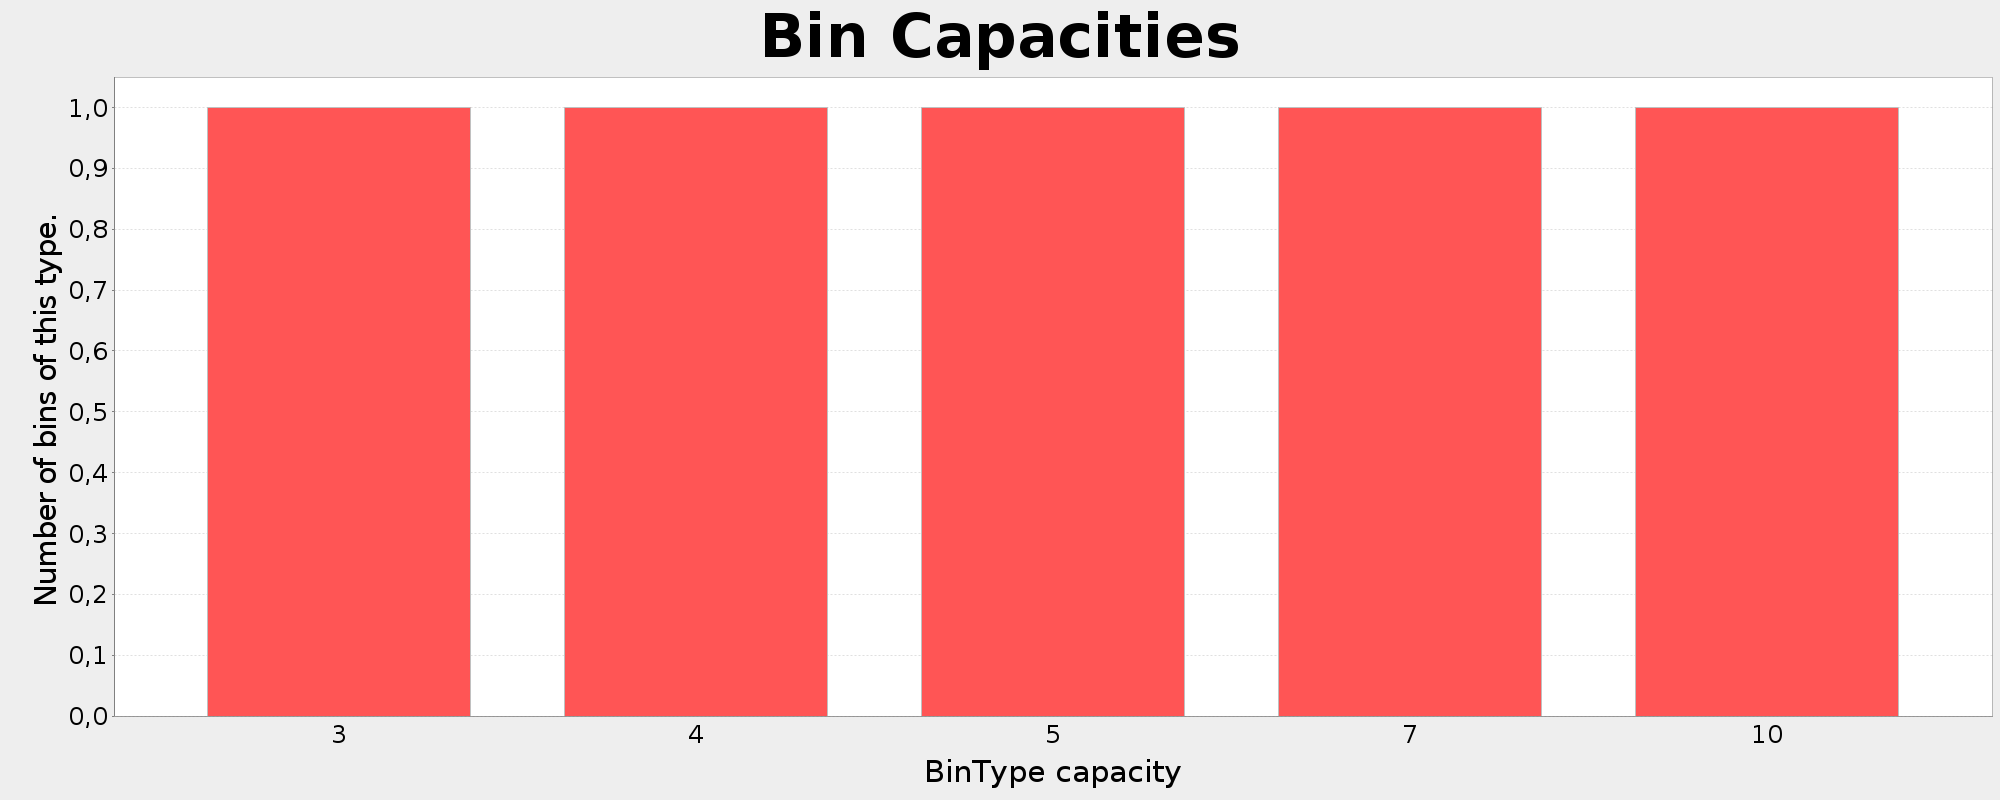
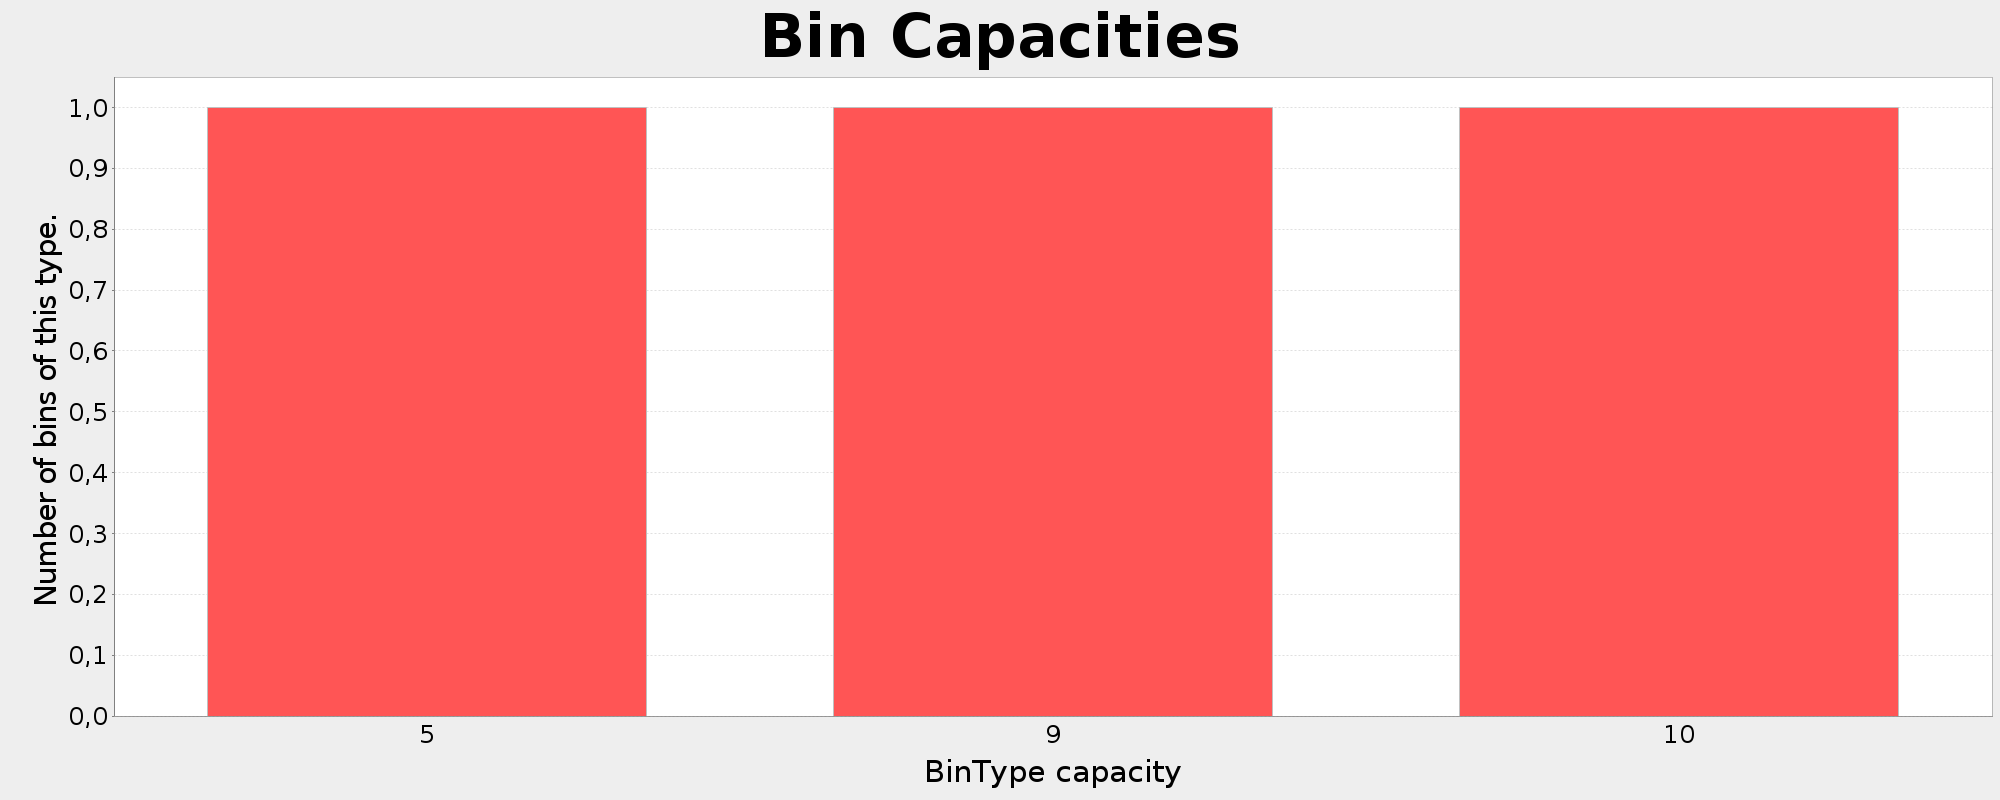
Before change : TreeSet item structure

Changed region(s): [[0.589, 0.125, 0.837, 0.9062], [0.217, 0.125, 0.465, 0.9062], [0.868, 0.9062, 0.899, 0.9375]]

diff --git a/CeiCloud/src/VSCIFP/algs/test/CIFFDTest.java b/CeiCloud/src/VSCIFP/algs/test/CIFFDTest.java
@@ -15,7 +15,7 @@ import VSCIFP.gens.VSCIFPGenerator;
 import common.problem.InputDataException;
 
 public class CIFFDTest {
-	final VSCIFP problem = new VSCIFP(10, 3, 1, 100, 1);
+	final VSCIFP problem = new VSCIFP(20, 3, 1, 100, 1);
 	final CIFFD ciffd = new CIFFD();
 	
 	/**
@@ -67,8 +67,35 @@ public class CIFFDTest {
 			}
 		};
 		
+VSCIFPGenerator genDiv = new VSCIFPGenerator(problem, 1000) {
+			
+			@Override
+			public VSCIFPInstance generateInstance() throws InputDataException {
+				VSCIFPInstance instance = new VSCIFPInstance(problem);
+				instance.binTypes = new TreeSet<BinType>(){{
+					add(new BinType(getProblem().getMaxBinCapacity(), getProblem().getMaxBinCapacity()));
+					add(new BinType(20, 20));
+					add(new BinType(8, 8));
+//					add(new BinType(10, 10));
+					add(new BinType(5, 5));
+				}};
+				instance.getItems().add(new Item(14));
+				instance.getItems().add(new Item(14));
+				instance.getItems().add(new Item(14));
+				instance.getItems().add(new Item(14));
+				instance.getItems().add(new Item(5));
+				instance.getItems().add(new Item(6));
+				instance.getItems().add(new Item(7));
+				instance.getItems().add(new Item(8));
+				instance.getItems().add(new Item(4));
+				instance.getItems().add(new Item(12));
+				return instance;
+			}
+		};
+		
 //		VSCIFPInstance i = gen.generateInstance();
-		VSCIFPInstance i = genFail.generateInstance();
+//		VSCIFPInstance i = genFail.generateInstance();
+		VSCIFPInstance i = genDiv.generateInstance();
 		
 //		System.out.println(ciffd.solve(i));
 		System.out.println(ciffd.solve(i).getBins());

diff --git a/CeiCloud/src/VSCIFP/algs/CIFFD.java b/CeiCloud/src/VSCIFP/algs/CIFFD.java
@@ -78,7 +78,7 @@ public class CIFFD extends Algorithm<VSCIFP, VSCIFPInstance>{
 		//called T1-.
 		try {
 
-			divide(sol.getItems(), ins.getProblem().getMaxBinCapacity(), 0);
+			divide(sol.getItems(), ins.getBinTypeByIndex(0).getCapacity() , 0);
 
 			//Pack items in T1p, put the remainders in T1m
 			packBig(ins, 0);
@@ -102,15 +102,28 @@ public class CIFFD extends Algorithm<VSCIFP, VSCIFPInstance>{
 
 		} catch (ItemCutException e1) {
 			// TODO Auto-generated catch block
-			e1.printStackTrace();
+			throw new RuntimeException(e1);
 		} catch (Exception e1) {
 			// TODO Auto-generated catch block
-			e1.printStackTrace();
+			throw new RuntimeException(e1);
 		}
 		System.out.println(solutions);
 
 		//TODO return best solution.
 		
+		
+		//Repack what can be repacked.
+		int i = 0;
+		for (Bin bin : sol.getBins()) {
+			for (BinType newType : ins.binTypes) {
+				if (bin.getFillCount() <= newType.capacity && newType.capacity < bin.getType().capacity){
+					i = i+ (bin.getType().cost - newType.cost);
+					sol.setTotalCost(sol.getCost() - (bin.getType().cost - newType.cost));
+					bin.setType(newType);
+				}
+			}
+		}
+		System.out.println("meilleur de "+i);
 		return sol;
 	}
 
@@ -154,7 +167,6 @@ public class CIFFD extends Algorithm<VSCIFP, VSCIFPInstance>{
 				sol.addClosedBin(newBin);
 				//Put the remainder into T1m
 				Tm.get(j).add(cutChildren.get(1));
-
 		}		
 	}
 

diff --git a/CeiCloud/src/VSCIFP/VSCIFPSolution.java b/CeiCloud/src/VSCIFP/VSCIFPSolution.java
@@ -1,13 +1,11 @@
 package VSCIFP;
 
 import java.util.ArrayList;
-import java.util.HashMap;
+import java.util.Collections;
 import java.util.HashSet;
 import java.util.List;
-import java.util.Map;
 import java.util.Set;
-
-import javax.rmi.CORBA.Util;
+import java.util.TreeSet;
 
 import VSCIFP.algs.Item;
 import VSCIFP.algs.SolutionItem;
@@ -54,6 +52,11 @@ public class VSCIFPSolution extends AbstractSolution<VSCIFP, VSCIFPInstance> imp
 	 * Item sizes.
 	 */
 	private List<SolutionItem> items = new ArrayList<SolutionItem>();
+	
+	/**
+	 * Items are sorted in a binary tree.
+	 */
+	private TreeSet<SolutionItem> itemsBinaryTree = new TreeSet<>(Collections.reverseOrder());
 
 	public Set<Bin> getBins() {
 		return bins;
@@ -171,6 +174,13 @@ public class VSCIFPSolution extends AbstractSolution<VSCIFP, VSCIFPInstance> imp
 
 	public List<SolutionItem> getItems() {
 		return items;
+	}
+	
+	public List<SolutionItem> getItemLeaves() {
+		//Traverses all the trees whose roots are items. Return all leaves.
+		for (SolutionItem item : items) {
+			
+		}
 	}
 
 	public void setItems(List<SolutionItem> items) {

diff --git a/CeiCloud/src/VSCIFP/algs/SolutionItem.java b/CeiCloud/src/VSCIFP/algs/SolutionItem.java
@@ -1,10 +1,13 @@
 package VSCIFP.algs;
 
 import java.util.ArrayList;
+import java.util.Collection;
+import java.util.Collections;
 import java.util.List;
+import java.util.Set;
+import java.util.TreeSet;
 
 import VSCIFP.ItemCutException;
-import VSCIFP.VSCIFPSolution;
 import common.solution.ISolution;
 
 public class SolutionItem extends Item{
@@ -100,6 +103,26 @@ public class SolutionItem extends Item{
 	public int getTimesCut() {
 		if (comesFromCut()) return getRoot().getTimesCut();
 		else return timesCut;
+	}
+	
+	public Set<SolutionItem> getLeaves(){
+		return this.getLeavesRecursive(new TreeSet<SolutionItem>(Collections.reverseOrder()));
+	}
+	
+	private TreeSet<SolutionItem> getLeavesRecursive(TreeSet<SolutionItem> leaves){
+		
+		if (filsG != null){
+			leaves = filsG.getLeavesRecursive(leaves);
+		} else if (filsD == null){
+			leaves.add(this);
+			return leaves;
+		}
+		
+		if (filsD != null){
+			filsD.getLeavesRecursive(leaves);			
+		}
+		
+		return leaves;
 	}
 	
 }

diff --git a/CeiCloud/src/VSCIFP/VSCIFP.java b/CeiCloud/src/VSCIFP/VSCIFP.java
@@ -4,7 +4,6 @@ import common.problem.AbstractProblem;
 
 public class VSCIFP extends AbstractProblem{
 	
-	
 	public VSCIFP(int maxBinCapacity, int typesOfBinCount, int itemMinSize,
 			int itemMaxSize, int maxNumSplits) {
 		super();
@@ -13,7 +12,13 @@ public class VSCIFP extends AbstractProblem{
 		this.itemMinSize = itemMinSize;
 		this.itemMaxSize = itemMaxSize;
 		this.maxNumSplits = maxNumSplits;
+		checkFeasibility();
 	}
+	
+	private void checkFeasibility() {
+		if (maxBinCapacity * (maxNumSplits +1) < itemMaxSize) throw new RuntimeException("Problem is potentially not feasible.");
+	}
+	
 
 	/**
 	 * Number of splits allowed per item

diff --git a/CeiCloud/src/binpacking/tomasik/Main.java b/CeiCloud/src/binpacking/tomasik/Main.java
@@ -25,8 +25,8 @@ public class Main {
 		NF nf = new NF();
 		NFD nfd = new NFD();
 		
-//		TomasikBPPGenerator gen = new TomasikBPPGenerator(problem, 100);
-		MartelloTothBPPLibraryGenerator gen = new MartelloTothBPPLibraryGenerator(problem);
+		TomasikBPPGenerator gen = new TomasikBPPGenerator(problem, 100);
+//		MartelloTothBPPLibraryGenerator gen = new MartelloTothBPPLibraryGenerator(problem);
 		
 		System.out.println(new BPPOptimalBenchmark(problem, nf, gen, 1000).run());
 		System.out.println(new BPPOptimalBenchmark(problem, nfd, gen, 1000).run());

diff --git a/CeiCloud/src/VSCIFP/Main.java b/CeiCloud/src/VSCIFP/Main.java
@@ -9,11 +9,10 @@ import common.solution.OptimalCostNotKnownException;
 
 public class Main {
 	public static void main(String[] args) throws InputDataException, OptimalCostNotKnownException {
-		VSCIFP p = new VSCIFP(10, 5, 1, 30, 1);
+		VSCIFP p = new VSCIFP(10, 3, 1, 20, 1);
 //		MonotoneVSCIFPGenerator gen = new MonotoneVSCIFPGenerator(p);
 		LinearVSCIFPGenerator gen = new LinearVSCIFPGenerator(p, 1000);
 		List<VSCIFPInstance> instances = gen.generateInstances(10);
-		
 		
 		for (VSCIFPInstance ins : instances) {
 			CIFFD ciffd = new CIFFD();

diff --git a/CeiCloud/src/VSCIFP/gens/LinearVSCIFPGenerator.java b/CeiCloud/src/VSCIFP/gens/LinearVSCIFPGenerator.java
@@ -1,10 +1,8 @@
 package VSCIFP.gens;
 
 import java.util.ArrayList;
-import java.util.HashSet;
 import java.util.Iterator;
 import java.util.List;
-import java.util.Set;
 
 import VSCIFP.Bin;
 import VSCIFP.BinType;
@@ -12,6 +10,7 @@ import VSCIFP.VSCIFP;
 import VSCIFP.VSCIFPInstance;
 import VSCIFP.VSCIFPSolution;
 import VSCIFP.algs.Item;
+
 import common.Utils;
 import common.VizUtils;
 import common.problem.InputDataException;

diff --git a/CeiCloud/src/VSCIFP/Bin.java b/CeiCloud/src/VSCIFP/Bin.java
@@ -10,7 +10,7 @@ import VSCIFP.algs.SolutionItem;
 
 public class Bin {
 
-	private final BinType type;
+	private BinType type;
 	private boolean open = true;
 	private final List<Item> content;
 	private int fillCount = 0;
@@ -124,6 +124,10 @@ public class Bin {
 
 	public void flush() {
 		content.clear();
+	}
+
+	public void setType(BinType type) {
+		this.type = type;
 	}
 
 }
